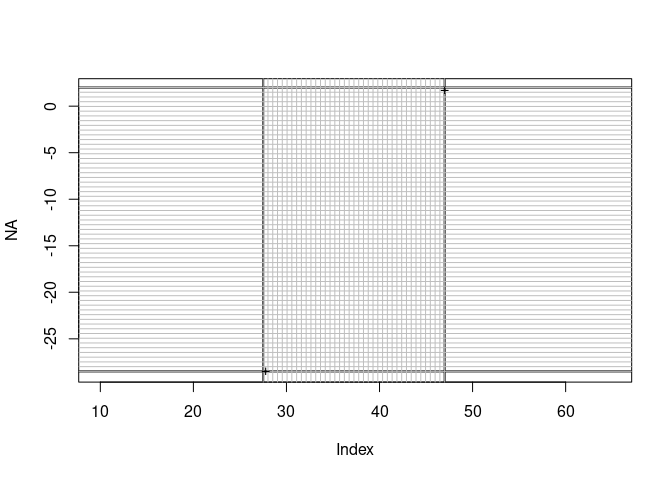
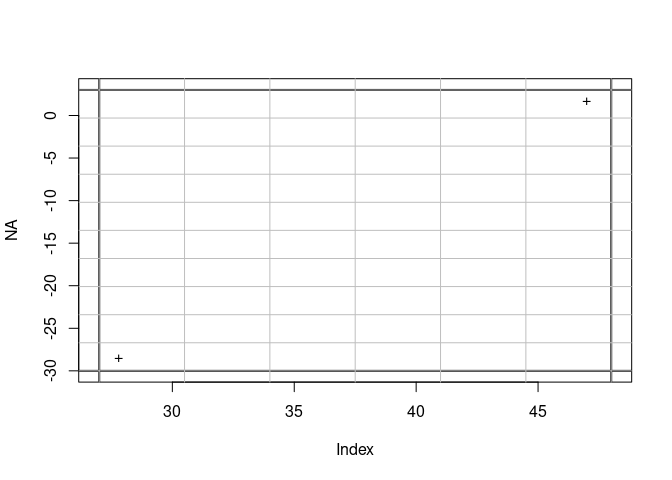
better figure

diff --git a/README.md b/README.md
@@ -51,8 +51,8 @@ print(x)
 #>       xmin       xmax       ymin       ymax 
 #>  27.791559  46.982302 -28.443197   1.738701
 ## all we need is a extent and dimension, we want to align to that grid
-v <- vcrop(x,  c(-180, 180, -90, 90), c(360, 180) * 2)
-plot(NA, xlim = x[1:2], ylim = x[3:4], asp = 1)
+v <- vcrop(x,  c(-180, 180, -90, 90), c(360, 180) /3)
+plot(NA, xlim = v$extent[1:2], ylim = v$extent[3:4], asp = "")
 g_along <- function(x, n) seq(x[1], x[2], length.out = n)
 abline(v = v$extent[1:2], h = v$extent[3:4], lwd = 2)
 abline(v = g_along(v$extent[1:2], v$dimension[1]), h = g_along(v$extent[3:4], v$dimension[2]), col = "grey")
